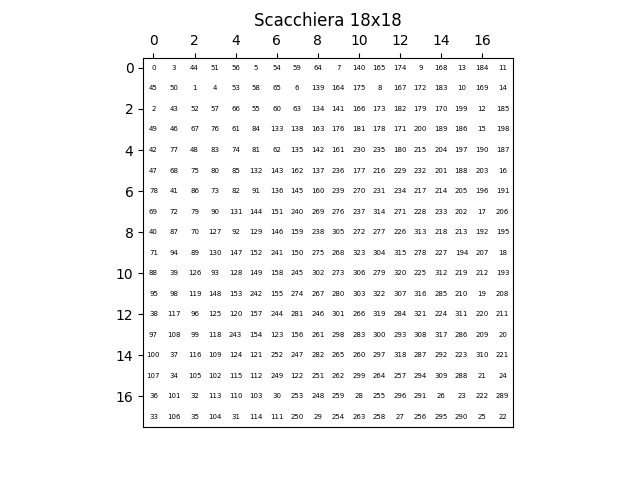
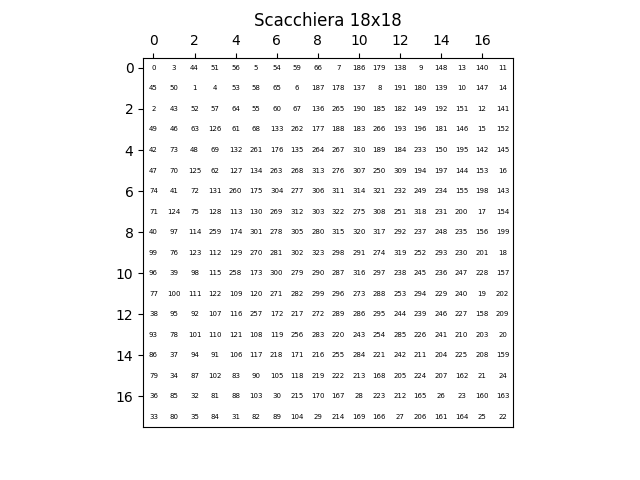
updated esCavallo and output images

diff --git a/esCavallo.py b/esCavallo.py
@@ -74,21 +74,24 @@ def salva_matrice_come_immagine(M):
 
     plt.close()
 
+def test_func(i):
+    print("Test metodo per i = " + str(i))
+    start = time.time()
+    soluzione,t,iterazioni = cerca_percorso(i)
+    end = time.time()
+    print(end-start)
+    print("Trovato per i = " + str(i) + " " + str(t))
+    M = [[-1 for _ in range(i)] for _ in range(i)]
+    for e in soluzione:
+        M[e[1]][e[0]] = e[2]
+    vm = verifica_matrice(M)
+    print("Matrice verificata: " + str(vm))
+    print()
+    return t,M
+
 if __name__ == '__main__':
 
     for i in range (2,101):
-        print("Test metodo per i = " + str(i))
-        start = time.time()
-        soluzione,t,iterazioni = cerca_percorso(i)
-        end = time.time()
-        print(end-start)
-        print("Trovato per i = " + str(i) + " " + str(t))
-        M = [[-1 for _ in range(i)] for _ in range(i)]
-        for e in soluzione:
-            M[e[1]][e[0]] = e[2]
-        vm = verifica_matrice(M)
-        print("Matrice verificata: " + str(vm))
-        print()
-        
-        if t and i < 10:
+        t,M = test_func(i)
+        if t and i < 26:
             salva_matrice_come_immagine(M)
